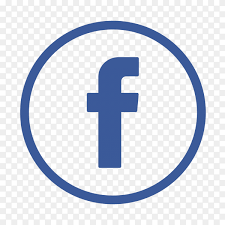
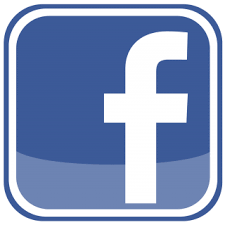
updated res

diff --git a/src/contact.html b/src/contact.html
@@ -9,7 +9,6 @@
 
 <body>
   <div>
-
     <h3>Contact Details</h3>
     <ul>
       <li>
@@ -24,42 +23,61 @@
   <div>
     <h3>Contact Me</h3>
     <form class="" action="../index.html" method="post">
-      <p>
-        <label for="">Your name : </label>
-        <input type="text" name="name" value="">
-      </p>
-      <p>
-        <label for="">Your contact : </label>
-        <input type="text" name="contact" value="">
-      </p>
-      <p>
-        <label>Your email :</label>
-        <input type="email" name="email" value="">
-      </p>
-      <p>
-        <label for="">Upload file : </label>
-        <input type="file" name="file" value="">
-      </p>
-      <p>
-        <label for="">Your Mesage : </label>
-        <textarea name="name" rows="8" cols="80"></textarea>
-      </p>
-      <p>
-        <input <input type="submit" name="" value="Contact me">
-      </p>
+      <table cellspacing="10px">
+        <tr>
+          <td>
+            <label for="">Your name</label>
+          </td>
+          <td>
+            <input type="text" name="name" value="">
+          </td>
+        </tr>
+        <tr>
+          <td>
+            <label for="">Your contact</label>
+          </td>
+          <td>
+            <input type="text" name="contact" value="">
+          </td>
+        </tr>
+        <tr>
+          <td>
+            <label for="">Your email</label>
+          </td>
+          <td>
+            <input type="text" name="email" value="">
+          </td>
+        </tr>
+        <tr>
+          <td>
+            <label for="">Upload file</label>
+          </td>
+          <td>
+            <input type="file" name="file" value="">
+          </td>
+        </tr>
+        <tr>
+          <td>
+            <label for="">Your message</label>
+          </td>
+          <td>
+            <textarea name="name" rows="8" cols="80"></textarea>
+          </td>
+        </tr>
+      </table>
     </form>
   </div>
 
   <hr>
-  <div>
+  <div class="contactStyle">
     <p>
     <h3>Social Network</h3>
     <a href="https://www.facebook.com/nehabanerjee030/"><img src="../res/facebook.png" width="50px" height="50px" /></a>
-    <a href="https://www.instagram.com/nehabanerjee06/"><img src="../res/insta.jpg" width="50px" height="50px" /></a>
+    <span>&nbsp;&nbsp;&nbsp;&nbsp;</span>
+    <a href="https://www.instagram.com/nehabanerjee06/"><img src="../res/insta.png" width="50px" height="50px" /></a>
+    <span>&nbsp;&nbsp;&nbsp;&nbsp;</span>
     <a href="https://www.linkedin.com/in/neha-banerjee-9b63ba3b/"><img src="../res/linkedin.png" width="50px" height="50px" /></a>
     </p>
-
-
   </div>
 
 </body>

diff --git a/css/styles.css b/css/styles.css
@@ -1,9 +1,9 @@
 body {
-  background-color: #DADDFC;
+  background-color: #D3DEDC;
 }
 
 hr {
-  background-color: #DADDFC;
+  background-color: #D3DEDC;
   border-style: dotted none none none;
   width: 5%;
   border-width: 5px;
@@ -16,19 +16,28 @@ img {
 }
 
 div {
-  border-radius: 50px;
+  border-radius: 10px;
   padding: 50px;
   margin: 20px;
-  background-color: #D3E4CD;
+  background-color: #7C99AC;
   box-shadow: 1px 1px 1px 1px #99A799;
 }
 
 h1 {
   color: #FFEFEF;
 }
+label{
+  color: #FFEFEF;
+}
 
 h3 {
-  color: #7C99AC;
+  color: #FFEFEF;
+}
+p {
+  color: #D3DEDC;
+}
+ul{
+  color: #D3DEDC;
 }
 
 .tableStyle {
@@ -64,5 +73,9 @@ h3 {
   padding-bottom: 12px;
   text-align: center;
   background-color: #7C99AC;
-  color: white;
+  color: #FFEFEF;
+}
+.contactStyle img {
+  height: 50px;
+  width: 50px;  
 }

diff --git a/index.html b/index.html
@@ -8,7 +8,7 @@
 </head>
 
 <body>
-  <div>
+  <div class="header">
     <table cellspacing="50">
       <td>
         <img src="res/Profile.png" alt="Neha's Image">
